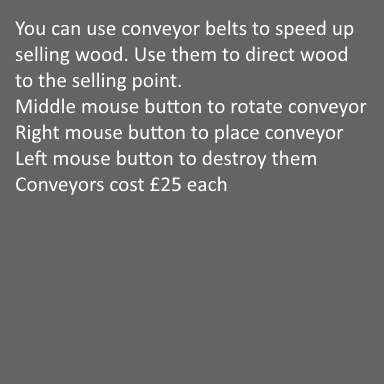
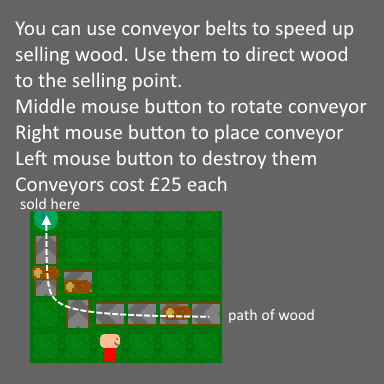
Tutorial 3

Changed region(s): [[0.0625, 0.5, 0.8438, 0.9688]]

diff --git a/Monolith/Tutorial.py b/Monolith/Tutorial.py
@@ -9,13 +9,14 @@ import Img
 from GUI import HelpGUI
 import Tools
 import Mech
+import Forestry
 class Help(Buyer):
     doc="Right click for help!"
     forward=False
     img=Img.imgret2("Tutorial/Help.png")
-    def __init__(self,img):
+    def __init__(self,num):
         self.cost=0
-        self.gui=HelpGUI(img)
+        self.gui=HelpGUI(Img.imgret("Tutorial/"+str(num)+".png"))
     def buy(self, world, tx, ty, p):
         world.run_GUI(self.gui)
         return True
@@ -37,9 +38,18 @@ class Tutorial(object):
         pass
     def generatec(self,world,x,y):
         pass
-class TestTutorial1(Tutorial):
-    pmenu=[Help(Img.imgret("Tutorial/1.png")),ObjBuyer(Object.Monolith,1000)]
-    extools=[Tools.Axe]
-class TestTutorial2(Tutorial):
-    pmenu=[Help(Img.imgret("Tutorial/2.png")),RotObjBuyer(Mech.SlowConv,25),ObjBuyer(Object.Monolith,2000)]
-    extools=[Tools.Axe]
+class TT1(Tutorial):
+    def __init__(self,generator,pmenu,extools):
+        self.generator=generator
+        self.pmenu=pmenu
+        self.extools=extools
+    def generate(self,world):
+        world.player.menu=self.pmenu
+        return self.generator.generate(world)
+    def egen(self,world):
+        pass
+    def generatec(self,world,x,y):
+        pass
+tutorials=[[[Help(1),ObjBuyer(Object.Monolith,1000)],[Tools.Axe]],
+           [[Help(2),RotObjBuyer(Mech.SlowConv,25),ObjBuyer(Object.Monolith,2000)],[Tools.Axe]],
+           [[Help(3),ObjBuyer(Forestry.AutoChopper,500),RotObjBuyer(Mech.Output,25),RotObjBuyer(Mech.SlowConv,25),ObjBuyer(Object.Monolith,10000)],[Tools.Axe]]]

diff --git a/Monolith/Forestry.py b/Monolith/Forestry.py
@@ -44,6 +44,18 @@ class AutoChopper(Object.OObject):
             self.idle=60
         else:
             self.idle-=1
+class AutoChopperNP(AutoChopper):
+    doc="Chops down trees in the 3x3 square around it and outputs the logs."
+    def update(self,world):
+        if self.idle==0:
+            for x in range(self.x-1,self.x+2):
+                for y in range(self.y-1,self.y+2):
+                    if world.get_obj(x,y) and world.get_objname(x,y)[:4]=="Tree" and not self.output:
+                        self.output.append(world.get_obj(x,y).cut(world,False))
+                        break
+            self.idle=60
+        else:
+            self.idle-=1
 class AutoChopperPlus(AutoChopper):
     img=Img.imgret2("AutoChopperPlus.png")
     doc="Chops down trees in the 5x5 square ring around it and outputs the logs. Consumes 100W. IO: Output"

diff --git a/Monolith/Generators.py b/Monolith/Generators.py
@@ -164,4 +164,4 @@ def generatelake(x,y,tid,centre,fullsize,partsize,world):
 gens=[Original(),EcoDesert(3),HeightRobots(2),HeightMap(1),HeightMap(3)]
 puzzles=[[RGBPuzzle((0,0,0)),RGBPuzzle((0,255,0)),RGBPuzzle((255,255,255)),RGBPuzzle((127,127,0))],
          [RGBPuzzle((63,0,63)),RGBPuzzle((0,191,63)),RGBPuzzle((127,63,191)),RGBPuzzle((31,127,0))]]
-tutorials=[Tutorial.TestTutorial1(Original()),Tutorial.TestTutorial2(Original())]
+tutorials=[Tutorial.TT1(Original(),n[0],n[1]) for n in Tutorial.tutorials]
